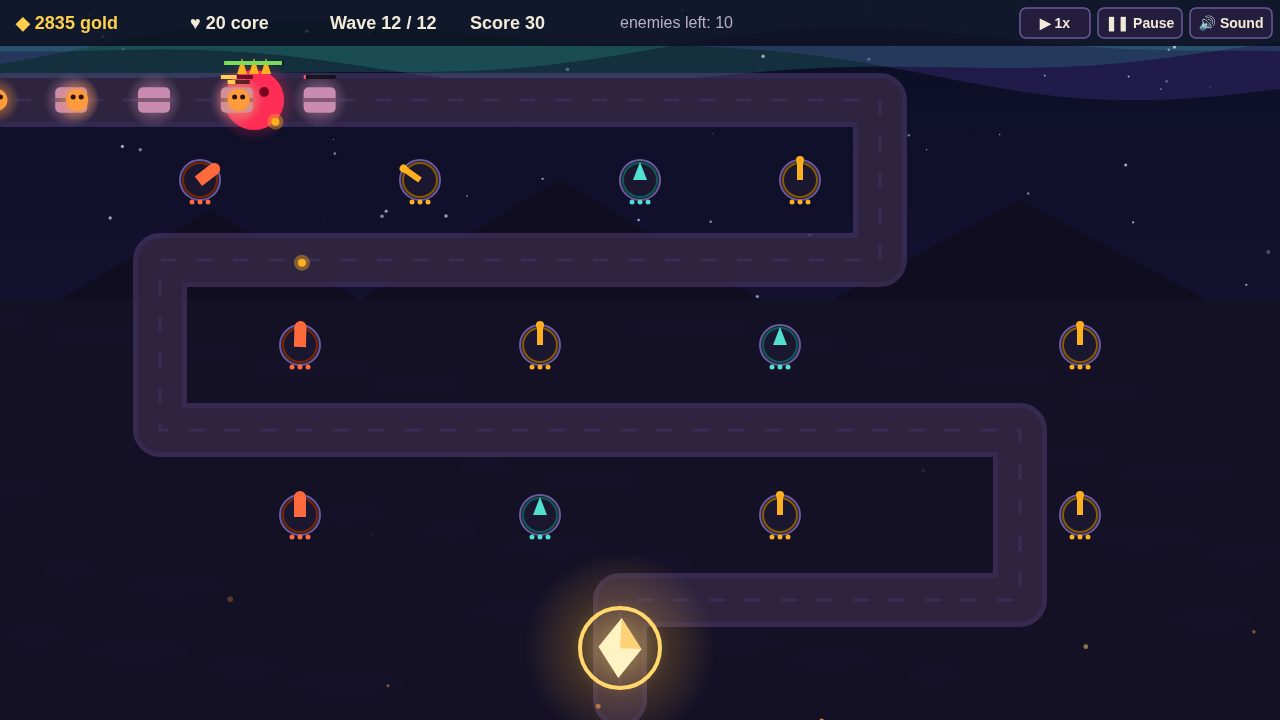
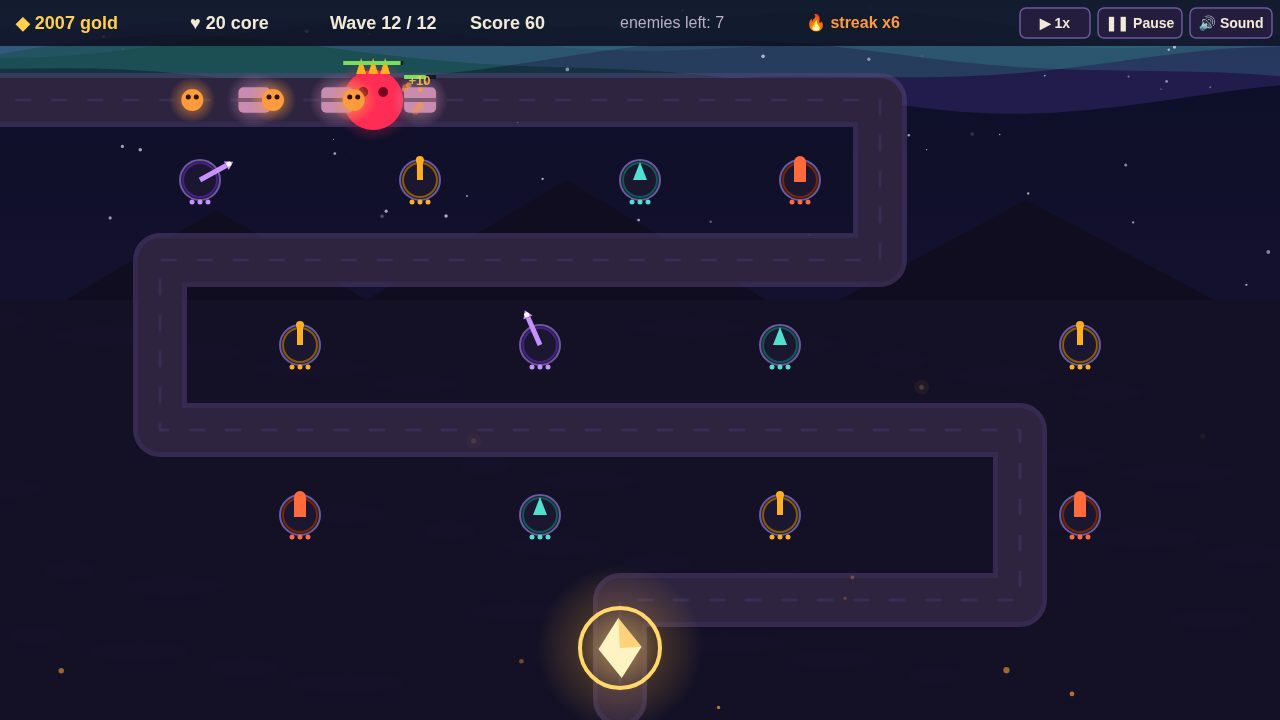
v2 finish: retaken screenshots (Lance panel, boss wave, streak HUD), streak counter no longer overlaps enemies-left, README for v2 features

diff --git a/game/src/render.js b/game/src/render.js
@@ -445,7 +445,7 @@ function drawHud(ctx, state, L) {
     ctx.fillStyle = '#ff9a3d';
     ctx.font = 'bold 16px sans-serif';
     ctx.textAlign = 'left';
-    ctx.fillText(`🔥 streak x${state.streak}`, 700, 24);
+    ctx.fillText(`🔥 streak x${state.streak}`, 806, 24);
   }
   if (state.streakBanner && state.streakBanner.t > 0) {
     ctx.save();

diff --git a/README.md b/README.md
@@ -6,12 +6,16 @@
 
 **EMBERLINE: Hold the Last Light** — an original tower-defense game in pure Canvas 2D
 with no library and no asset files. Ember-creatures march a winding path through a dark
-valley toward the Core, a glowing crystal. Build Spark, Frost and Mortar towers on the
-stone pads, earn gold from kills and wave-clear bonuses, and survive all 12 waves —
-including the Ember Colossus boss on wave 12. Three tower types with genuinely different
-roles, two upgrade levels each, four enemy types (fast scuttlers, armoured brutes,
-splitters that break in two, regenerators), synthesized WebAudio sound effects, and a
-fixed-timestep simulation under a 60 fps render loop.
+valley toward the Core, a glowing crystal. Build Spark, Frost, Mortar and Lance towers
+on the stone pads, earn gold from kills and wave-clear bonuses, and survive all 12
+waves — including the Ember Colossus boss on wave 12. Four tower types with genuinely
+different roles (the Lance fires a slow piercing beam down the line), two upgrade
+levels each, and per-tower targeting — every tower can be set to fire at the First,
+Strongest or Closest enemy, and sold back for 70% of its cost. Five enemy types (fast
+scuttlers, armoured brutes, splitters that break in two, regenerators, and the Aegis,
+whose shield aura blunts damage to nearby allies), a telegraphed Ember Surge rush on
+wave 6, kill-streak announcements with gold bonuses, synthesized WebAudio sound
+effects, and a fixed-timestep simulation under a 60 fps render loop.
 
 ## Run it
 
@@ -19,9 +23,11 @@ fixed-timestep simulation under a 60 fps render loop.
 node serve.ts
 ```
 
-Then open http://localhost:8080 in desktop Chrome. Click a stone pad to build, click a
-tower to upgrade or sell. **P** pauses, **Space** toggles 1x/2x speed, **M** mutes,
-**R** restarts. Survive wave 12 to win; the Core falling to 0 HP ends the run.
+Then open http://localhost:8080 in desktop Chrome. Click a stone pad to build (hover a
+card to preview its range), click a tower to upgrade, sell it for 70%, or set its
+targeting — First, Strong or Close, also on keys **1**/**2**/**3**. **P** pauses,
+**Space** toggles 1x/2x speed, **M** mutes, **R** restarts. Survive wave 12 to win;
+the Core falling to 0 HP ends the run.
 
 ## Files
 
